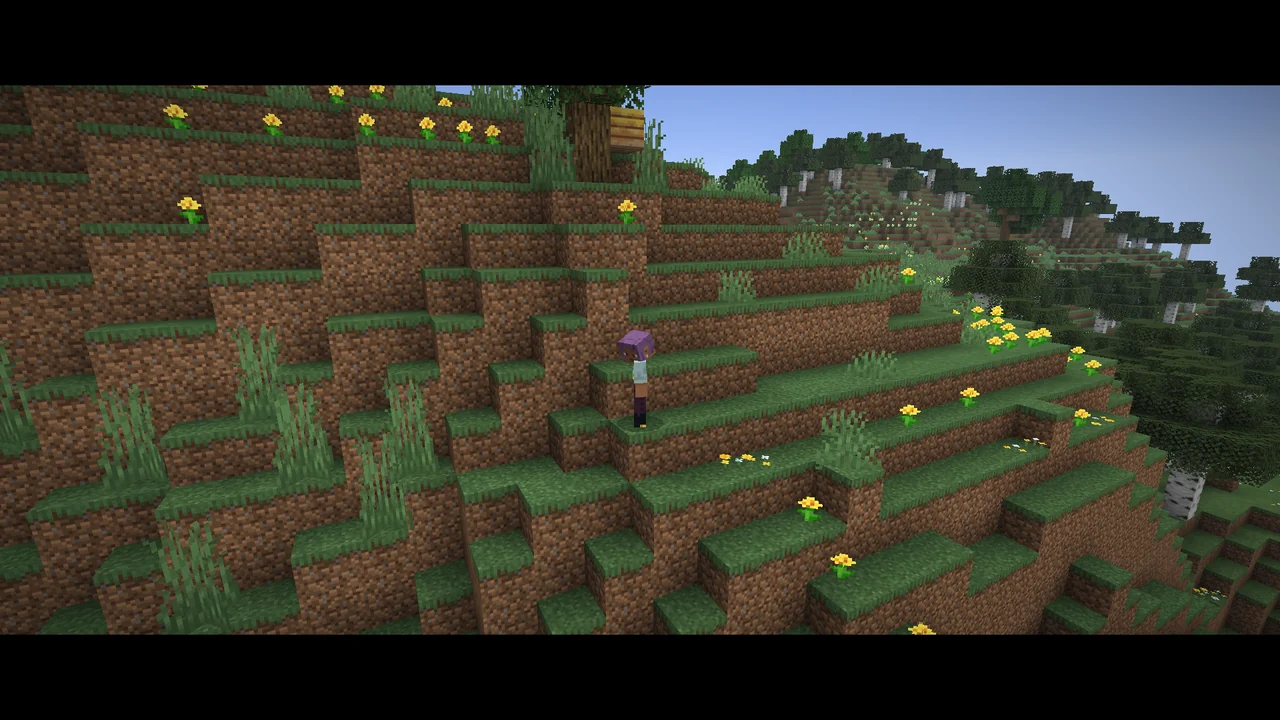
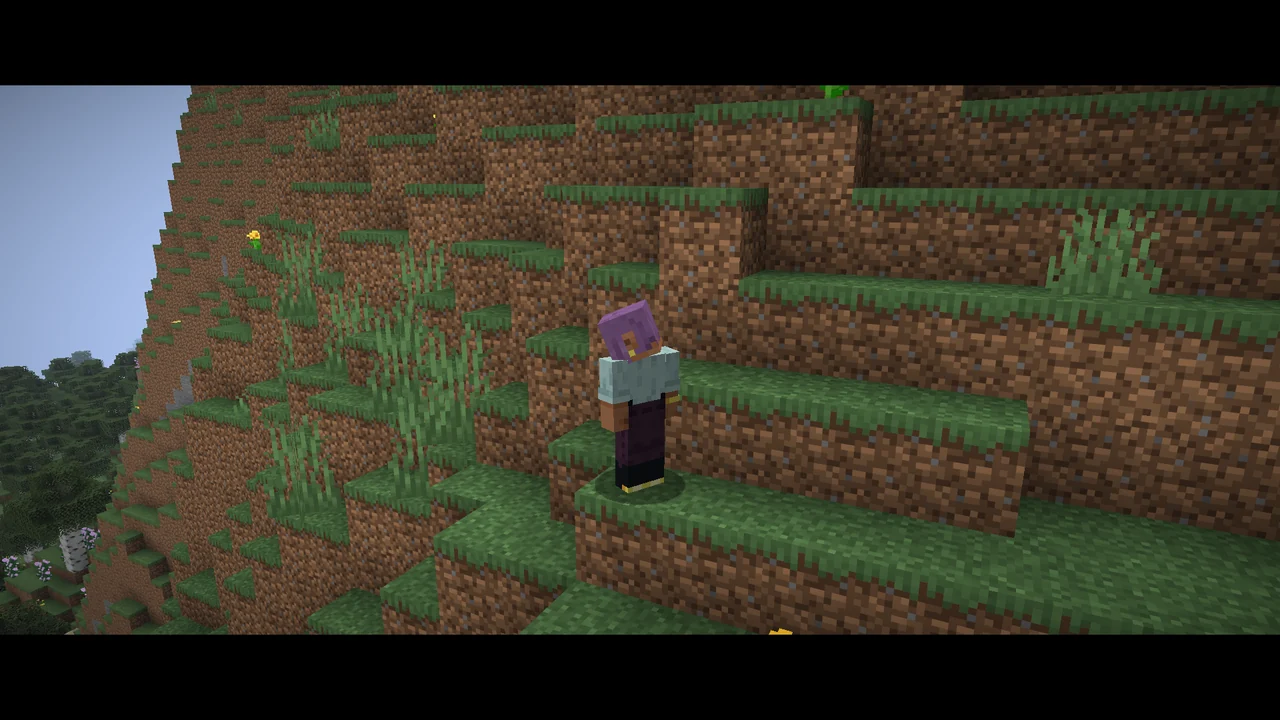
Update docs and showcase clip

diff --git a/tools/make_showcase.py b/tools/make_showcase.py
@@ -42,9 +42,9 @@ def clip():
         if f not in cache:
             cache[f] = Image.open(f).convert("RGB").resize(CLIP_SIZE, Image.LANCZOS)
         images.append(cache[f])
-    out = OUT / "camera-path.webp"
+    out = OUT / "flyover.webp"
     images[0].save(out, save_all=True, append_images=images[1:], duration=round(1000 / CLIP_FPS),
-                   loop=0, quality=58, method=6)
+                   loop=0, quality=50, method=6)
     print(out.name, len(recorded), "recorded,", len(set(chosen)), "used,", out.stat().st_size // 1024, "KB")
 
 

diff --git a/docs/modrinth.md b/docs/modrinth.md
@@ -7,7 +7,7 @@
 [![PayPal](https://raw.githubusercontent.com/bossgaming8/zocular/main/docs/assets/badges/paypal.png)](https://www.paypal.com/paypalme/BhoredM)&nbsp;&nbsp;
 [![Source](https://raw.githubusercontent.com/bossgaming8/zocular/main/docs/assets/badges/source.png)](https://github.com/bossgaming8/zocular)
 
-![A camera path recorded with Zocular](https://raw.githubusercontent.com/bossgaming8/zocular/main/docs/assets/showcase/camera-path.webp)
+![A camera path recorded with Zocular](https://raw.githubusercontent.com/bossgaming8/zocular/main/docs/assets/showcase/flyover.webp)
 
 **Smooth zoom, a film-style cinematic camera, freecam and keyframed camera paths. Client-side, and configured from one clean settings screen.**
 
@@ -16,19 +16,21 @@
 ## Features
 
 ### Zoom
-- Hold **Z** to zoom and scroll to go anywhere from 1.1× to 50×.
+- Hold **C** to zoom and scroll to go anywhere from 1.1× to 50×.
 - Mouse speed follows the zoom, so your aim stays steady at any level.
+- The zoom level shows in the top right, out of the way of your potion effects.
 - Optional look smoothing, hide-hand, and "remember my last zoom".
 
 ### Cinematic camera
-Press **I** and the camera flies out to frame you like a shot from a film, complete with letterbox bars and a soft vignette.
-- **Tripod** holds its frame and only pans once you drift toward the edge. Walk out of range or behind a wall and it glides, or cuts, to a new angle.
-- **Chase** follows behind you. **Orbit** slowly circles you.
-- **R** cuts to a fresh angle whenever you want one.
+Press **I** and the camera flies out and directs the scene like a western film, complete with letterbox bars and a soft vignette.
+- **Auto** works like a camera crew: it tracks alongside you, chases low behind you, leads from the front, sets up roadside cameras you ride past and pulls out for wide shots, cutting between them as you travel.
+- Rock-steady footage: your steps and hits don't shake the camera, and it shoots through its own lens.
+- Prefer one kind of shot? Pick **Tripod**, **Chase**, **Side** or **Orbit** instead.
+- **R** cuts to the next shot whenever you want one.
 - Can switch Iris shaders on or off for the shot and put them back afterwards.
 
 ### Freecam
-Press **K** to fly the camera anywhere while your character waits where you left it. Blocks stop the camera unless you turn on noclip, and taking damage snaps you straight back.
+Press **F4** to fly the camera anywhere while your character waits where you left it. Blocks stop the camera unless you turn on noclip, and taking damage snaps you straight back. The freecam panel has a Hide button (**H**) if you want a cleaner screen.
 
 ### Camera paths
 In freecam, **left-click** to drop keyframes along a route and **right-click** to play them back as one smooth shot. The camera follows a spline at an even speed with gentle easing, which makes it easy to film build tours and trailers.
@@ -38,7 +40,7 @@ Adjust the third-person distance, switch to an over-the-shoulder view, and roll 
 
 ## Settings
 
-Everything lives in one settings screen: open it from Mod Menu, type `/zocular`, or bind a key to it. Every option explains what it does, and anything you've changed can be reset with one click.
+Everything lives in one settings screen: open it from Mod Menu, type `/zocular`, or bind a key to it. Every option explains what it does, and anything you've changed can be reset with one click. Every Zocular HUD element can be dragged wherever you like with `/zocular hud`.
 
 ![Zocular settings screen](https://raw.githubusercontent.com/bossgaming8/zocular/main/docs/assets/showcase/settings.webp)
 
@@ -46,10 +48,11 @@ Everything lives in one settings screen: open it from Mod Menu, type `/zocular`,
 
 | Action | Default key |
 |---|---|
-| Zoom (hold, scroll to adjust) | `Z` |
+| Zoom (hold, scroll to adjust) | `C` |
 | Cinematic camera | `I` |
 | Next shot | `R` |
-| Freecam | `K` |
+| Freecam | `F4` |
+| Freecam panel full / compact | `H` |
 | Roll left / right / level | `[` / `]` / `\` |
 | Switch shoulder | not bound |
 | Open settings | not bound, or `/zocular` |
@@ -74,7 +77,7 @@ Zocular only runs on your client, so it works on any server. Some servers don't 
 
 Zocular is made by Bhored from **Banana Sandwich SMP**, a mature (18+), Hermitcraft-inspired vanilla server with proximity voice chat, built around genuine collaboration and fun.
 
-**[Join the Discord](https://discord.gg/bananasandwich)** to hop on.
+**[Visit bananasandwich.us](https://www.bananasandwich.us)** or **[join the Discord](https://discord.gg/bananasandwich)** to hop on.
 
 </div>
 

diff --git a/CHANGELOG.md b/CHANGELOG.md
@@ -15,13 +15,20 @@ Zocular 2.0 is a complete rewrite. Settings from 1.x are not carried over; the n
 
 - Smoother animation that feels even at every magnification, from 1.1× up to a configurable maximum of 100×.
 - Mouse speed follows the zoom, and look smoothing can steady your aim.
-- Zoom level indicator with a small meter under the crosshair.
+- Zoom level indicator with a small meter.
 
 **Cinematic camera**
 
-- Tripod, chase and orbit camera styles.
-- The tripod holds its frame and only pans once you drift toward the edge. If you walk away or behind something, it glides or cuts to a new spot.
-- Next Shot (<kbd>R</kbd>) cuts to a fresh angle.
+- A new Auto style directs the scene for you: it tracks alongside you, chases low behind you, leads from the front, sets up roadside cameras you ride past and pulls out for wide shots, cutting between them like a film.
+- Tripod, chase, side and orbit styles are there if you want a single kind of shot.
+- Steady footage: walking bob, hurt tilt and sprint FOV changes no longer shake the cinematic camera, and it has its own lens setting.
+- Next Shot (<kbd>R</kbd>) cuts to a different angle.
+
+**HUD**
+
+- The zoom level sits in the top right and moves below any potion effect icons.
+- The freecam panel shows a Hide button; <kbd>H</kbd> switches it between full and compact, and it can be turned off in the settings.
+- Every Zocular HUD element can be dragged to a new spot in the HUD editor (`/zocular hud` or Interface > Move HUD elements).
 
 **Freecam and camera paths**
 
@@ -34,4 +41,5 @@ Zocular 2.0 is a complete rewrite. Settings from 1.x are not carried over; the n
 
 - Third-person camera distance and shoulder view.
 - Camera roll in freecam and cinematic mode.
-- Cinematic Camera is now bound to <kbd>I</kbd> by default, because 26.3 uses <kbd>O</kbd> for the Friends list. Zoom In and Zoom Out are unbound; scroll while zooming instead.
+- New default keys: Zoom <kbd>C</kbd>, Freecam <kbd>F4</kbd>, Cinematic Camera <kbd>I</kbd> (26.3 uses <kbd>O</kbd> for the Friends list). Zoom In and Zoom Out are unbound; scroll while zooming instead.
+- Links to the Banana Sandwich website, Discord, bug tracker and donations from the settings screen.

diff --git a/README.md b/README.md
@@ -4,19 +4,19 @@
 
 Smooth zoom, a cinematic camera, freecam and camera paths for Minecraft.
 
-[Modrinth](https://modrinth.com/mod/zocular) · [Report a bug](https://github.com/bossgaming8/zocular/issues) · [Discord](https://discord.gg/bananasandwich)
+[Modrinth](https://modrinth.com/mod/zocular) · [Report a bug](https://github.com/bossgaming8/zocular/issues) · [Discord](https://discord.gg/bananasandwich) · [bananasandwich.us](https://www.bananasandwich.us)
 
 </div>
 
 ## Features
 
-- **Zoom.** Hold <kbd>Z</kbd> and scroll to go anywhere from 1.1× to 50×. Mouse speed follows the zoom so aim stays steady, with optional look smoothing.
-- **Cinematic camera.** Press <kbd>I</kbd> and the camera flies out to frame you like a film shot, with letterbox bars and a vignette. Tripod, chase and orbit styles; <kbd>R</kbd> cuts to a new angle.
-- **Freecam.** Press <kbd>K</kbd> to fly the camera around while your character waits where you left it. Blocks stop the camera unless you enable noclip.
+- **Zoom.** Hold <kbd>C</kbd> and scroll to go anywhere from 1.1× to 50×. Mouse speed follows the zoom so aim stays steady, with optional look smoothing.
+- **Cinematic camera.** Press <kbd>I</kbd> and the camera flies out and directs the scene like a film, cutting between side, chase, front, roadside and wide shots, with letterbox bars and a vignette. <kbd>R</kbd> cuts to the next shot.
+- **Freecam.** Press <kbd>F4</kbd> to fly the camera around while your character waits where you left it. Blocks stop the camera unless you enable noclip.
 - **Camera paths.** In freecam, left-click to drop keyframes and right-click to play them back as one smooth shot along a spline.
 - **Third person.** Camera distance, an over-the-shoulder view, and camera roll for freecam and cinematic shots.
 
-All of it is configured from one settings screen: open it from Mod Menu, type `/zocular`, or bind a key to it.
+All of it is configured from one settings screen: open it from Mod Menu, type `/zocular`, or bind a key to it. The HUD elements can be dragged anywhere with `/zocular hud`.
 
 <img src="docs/assets/showcase/settings.webp" alt="The Zocular settings screen" width="720">
 
